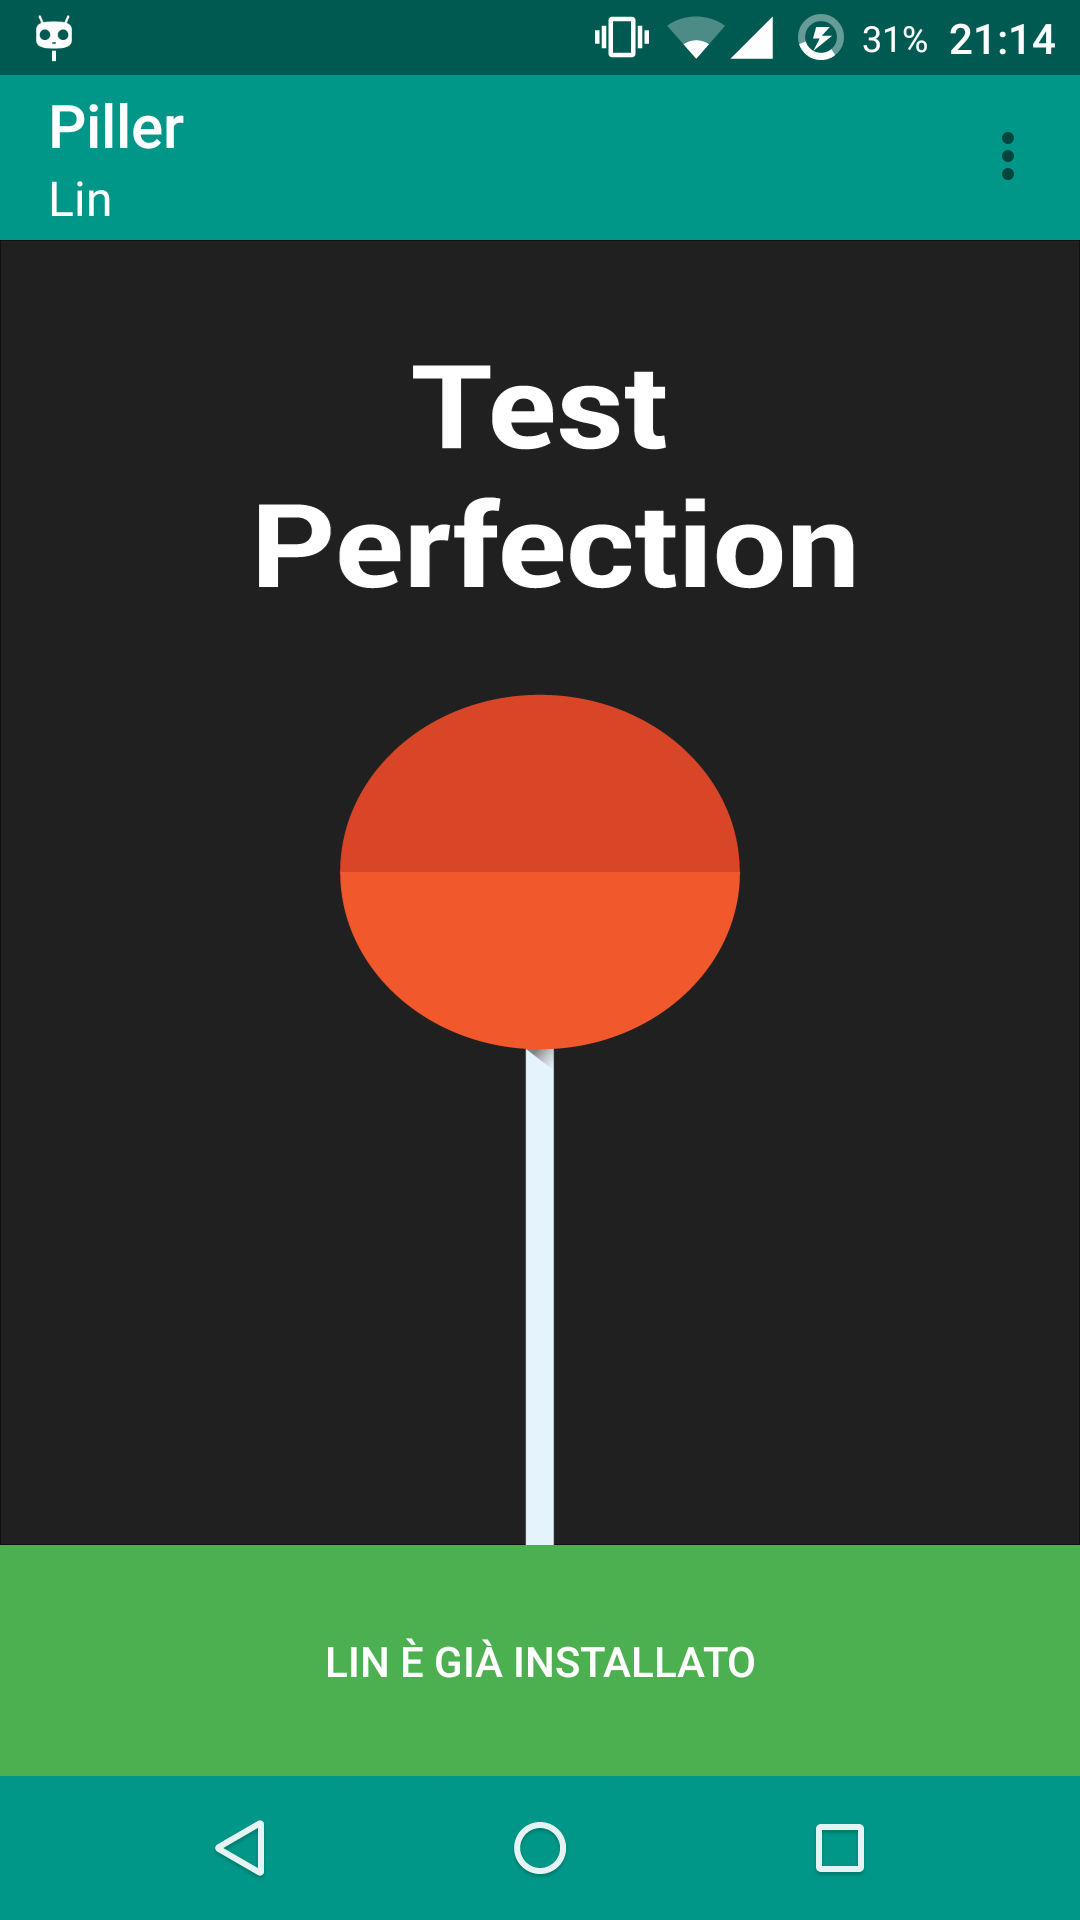
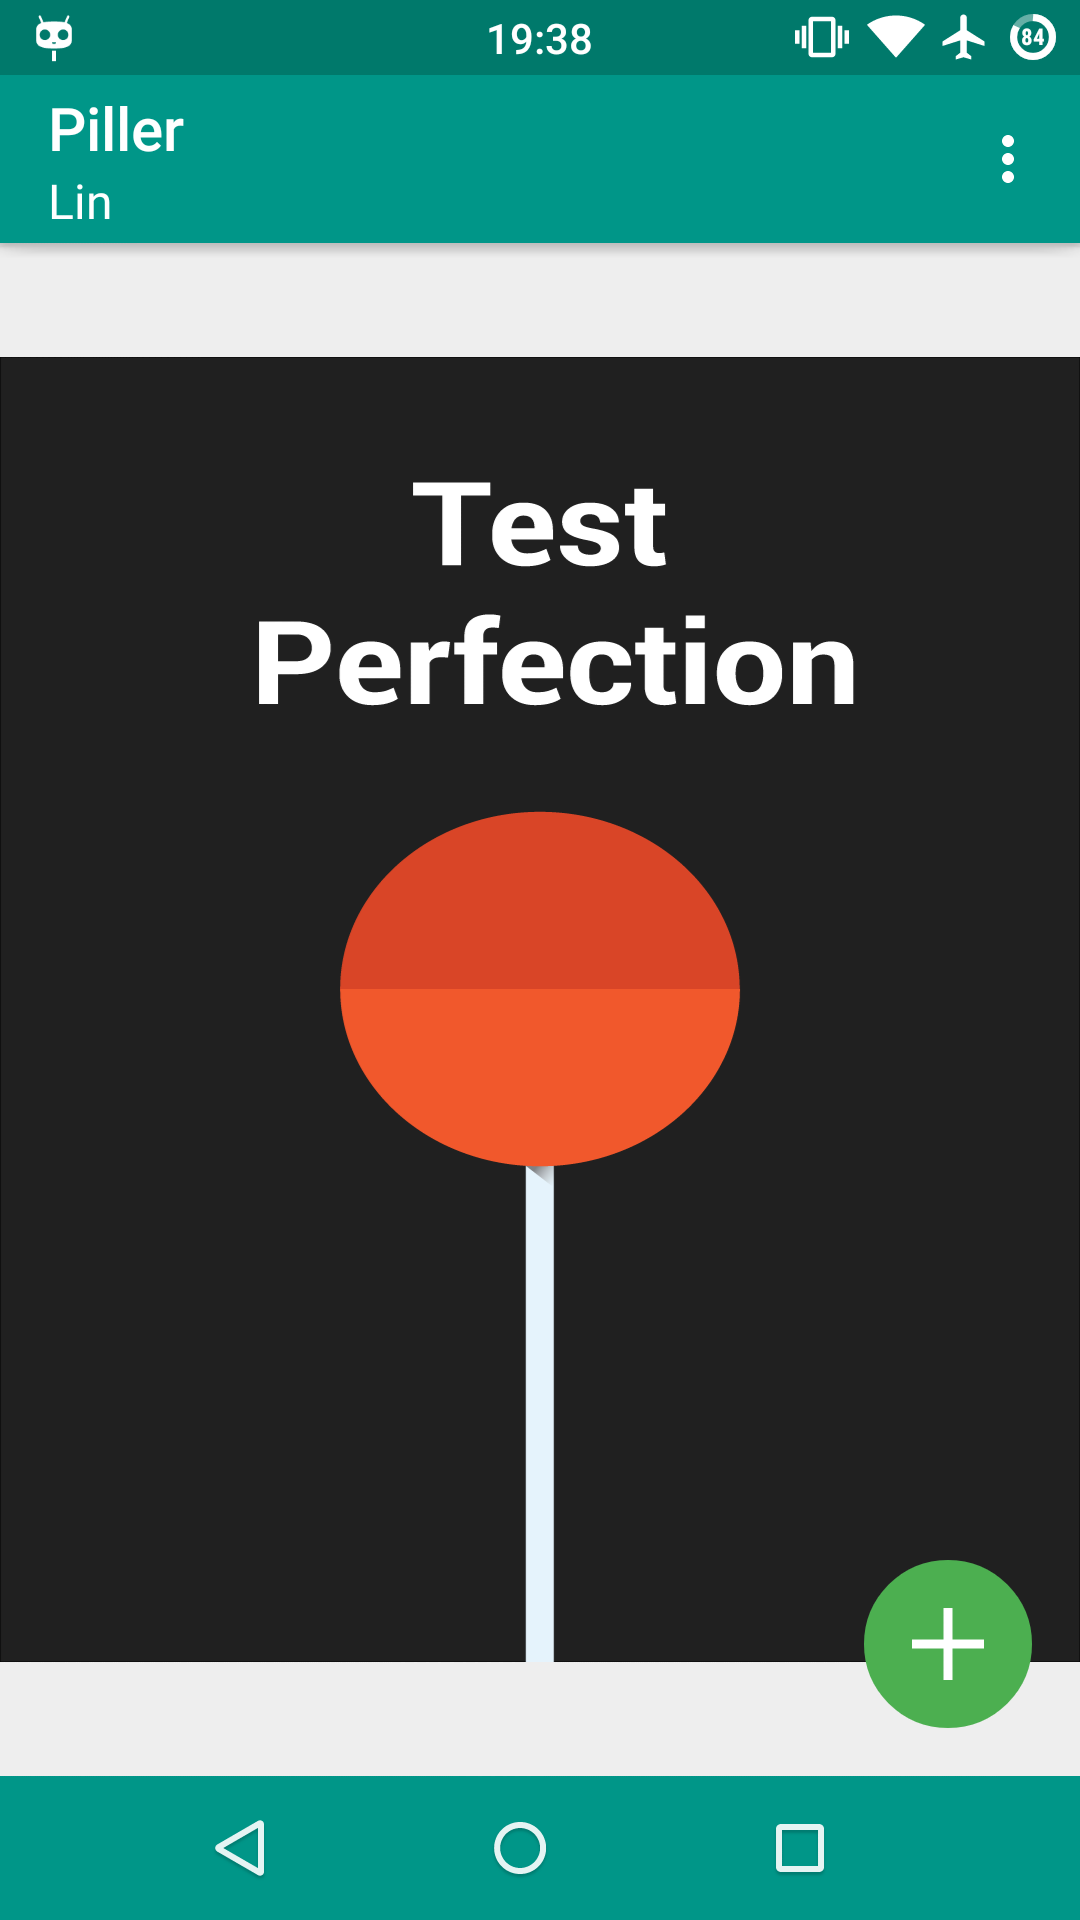
New material button and disinstallation added.
Changed the layout of the ThemeActivity with the addiction of a fab
button.
Added style and drawable for the fab.
Added the disintallation function at the fab button.

Changed region(s): [[0.0, 0.0938, 1.0, 0.625], [0.0, 0.7812, 1.0, 1.0], [0.0, 0.0, 1.0, 0.0938]]

diff --git a/app/src/main/java/io/github/pillsoft/piller/ThemeActivity.java b/app/src/main/java/io/github/pillsoft/piller/ThemeActivity.java
@@ -26,6 +26,8 @@ import android.content.Intent;
 import android.content.pm.PackageManager;
 import android.content.res.AssetManager;
 import android.graphics.Color;
+import android.graphics.PorterDuff;
+import android.graphics.drawable.Drawable;
 import android.net.Uri;
 import android.os.AsyncTask;
 import android.os.Bundle;
@@ -38,6 +40,7 @@ import android.view.MenuItem;
 import android.view.View;
 import android.view.Window;
 import android.widget.Button;
+import android.widget.ImageButton;
 import android.widget.ImageView;
 import android.widget.Toast;
 
@@ -57,7 +60,7 @@ public class ThemeActivity extends ActionBarActivity {
     String ThemeAccentColor;
     String ThemeHighlightColor;
     String FileName;
-    Button installButton;
+    ImageButton installButton;
     ImageView image;
 
 
@@ -94,23 +97,31 @@ public class ThemeActivity extends ActionBarActivity {
 
 
         FileName = ThemeName + ".apk";
-        installButton = (Button) findViewById(R.id.install_button);
-        installButton.setBackgroundColor(Color.parseColor(ThemeHighlightColor));
+
+
+        installButton = (ImageButton) findViewById(R.id.fab);
+
+        Drawable fabBackground=getResources().getDrawable(R.drawable.fab_background);
+        fabBackground.setColorFilter(Color.parseColor(ThemeHighlightColor), PorterDuff.Mode.ADD);
+
+        installButton.setBackground(fabBackground);
+       // installButton.setImageDrawable(getResources().getDrawable(R.drawable.plus));
+
 
         if (PackageInstalled(ThemePackage)) {
-            //InstallButton.setVisibility(View.GONE);
-            installButton.setVisibility(View.VISIBLE);
+            installButton.setClickable(true);
+            installButton.setImageDrawable(getResources().getDrawable(R.drawable.minus));
             installButton.setOnClickListener(new View.OnClickListener() {
                 @Override
                 public void onClick(View view) {
-                    OpenThemeInSettings(ThemePackage);
+
+                    Uninstall(ThemePackage);
                 }
             });
 
         } else {
-            installButton.setVisibility(View.VISIBLE);
             installButton.setClickable(true);
-            installButton.setText("Install " + ThemeName);
+            installButton.setImageDrawable(getResources().getDrawable(R.drawable.plus));
             installButton.setOnClickListener(new View.OnClickListener() {
                 @Override
                 public void onClick(View view) {
@@ -124,13 +135,20 @@ public class ThemeActivity extends ActionBarActivity {
     public void onResume() {
         super.onResume();
         if (PackageInstalled(ThemePackage)) {
-            //InstallButton.setVisibility(View.GONE);//hide the installation button
-            installButton.setText(ThemeName+" " + getResources().getString(R.string.alreadyInstalled));
             //clean of the /Themes/ folder
+            installButton.setClickable(true);
+            installButton.setImageDrawable(getResources().getDrawable(R.drawable.minus));
+            installButton.setOnClickListener(new View.OnClickListener() {
+                     @Override
+                     public void onClick(View view) {
+
+                         Uninstall(ThemePackage);
+                     }
+                 });
             delete(new File(Environment.getExternalStorageDirectory() + "/Themes/"));
         } else {
-            installButton.setVisibility(View.VISIBLE);
-            installButton.setText("Install " + ThemeName);
+            installButton.setClickable(true);
+            installButton.setImageDrawable(getResources().getDrawable(R.drawable.plus));
             installButton.setOnClickListener(new View.OnClickListener() {
                 @Override
                 public void onClick(View view) {
@@ -186,14 +204,14 @@ public class ThemeActivity extends ActionBarActivity {
         }
         return true;
     }
-
+/*
     public void OpenThemeInSettings(String target_package) {
         Intent intent = new Intent("android.intent.action.MAIN");
         intent.putExtra("pkgName", target_package);
         intent.setComponent(new ComponentName("org.cyanogenmod.theme.chooser", "org.cyanogenmod.theme.chooser.ChooserActivity"));
         startActivity(intent);
     }
-    /* NEXT UPATE
+*/
     public void Uninstall(String targetPackage) {
         Uri packageUri = Uri.parse("package:" + targetPackage);
         Intent uninstallIntent = new Intent(Intent.ACTION_DELETE,
@@ -201,13 +219,6 @@ public class ThemeActivity extends ActionBarActivity {
         startActivity(uninstallIntent);
     }
 
-    public void CopyToClipBoard(String label, String text) {
-        ClipboardManager clipboard = (ClipboardManager) getSystemService(CLIPBOARD_SERVICE);
-        ClipData clip = ClipData.newPlainText(label, text);
-        clipboard.setPrimaryClip(clip);
-        Toast.makeText(getApplicationContext(), label + " copied to clipboard", Toast.LENGTH_SHORT).show();
-    }
-*/
     private void copyFile(InputStream in, OutputStream out) throws IOException {
         byte[] buffer = new byte[1024];
         int read;
